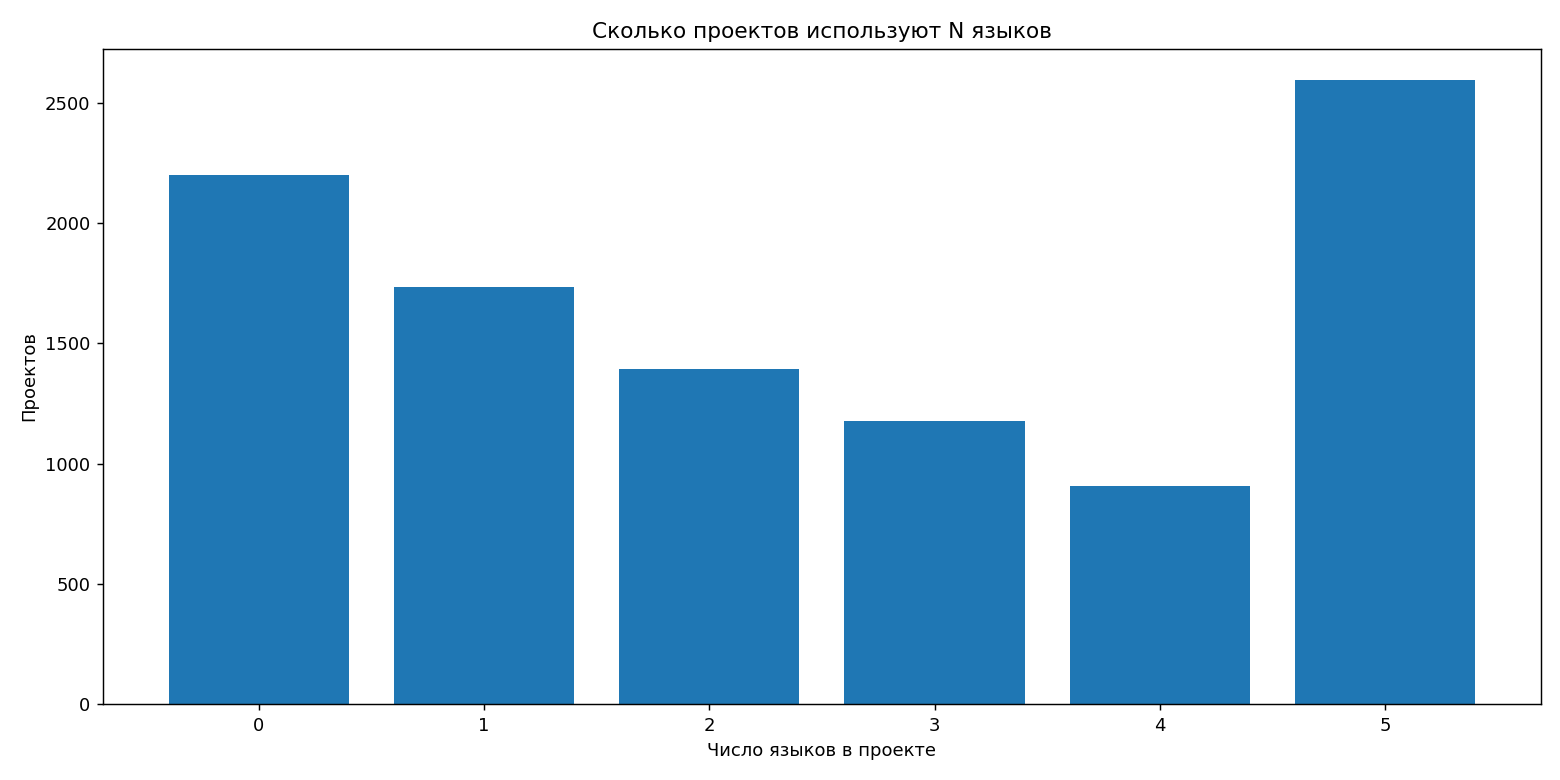
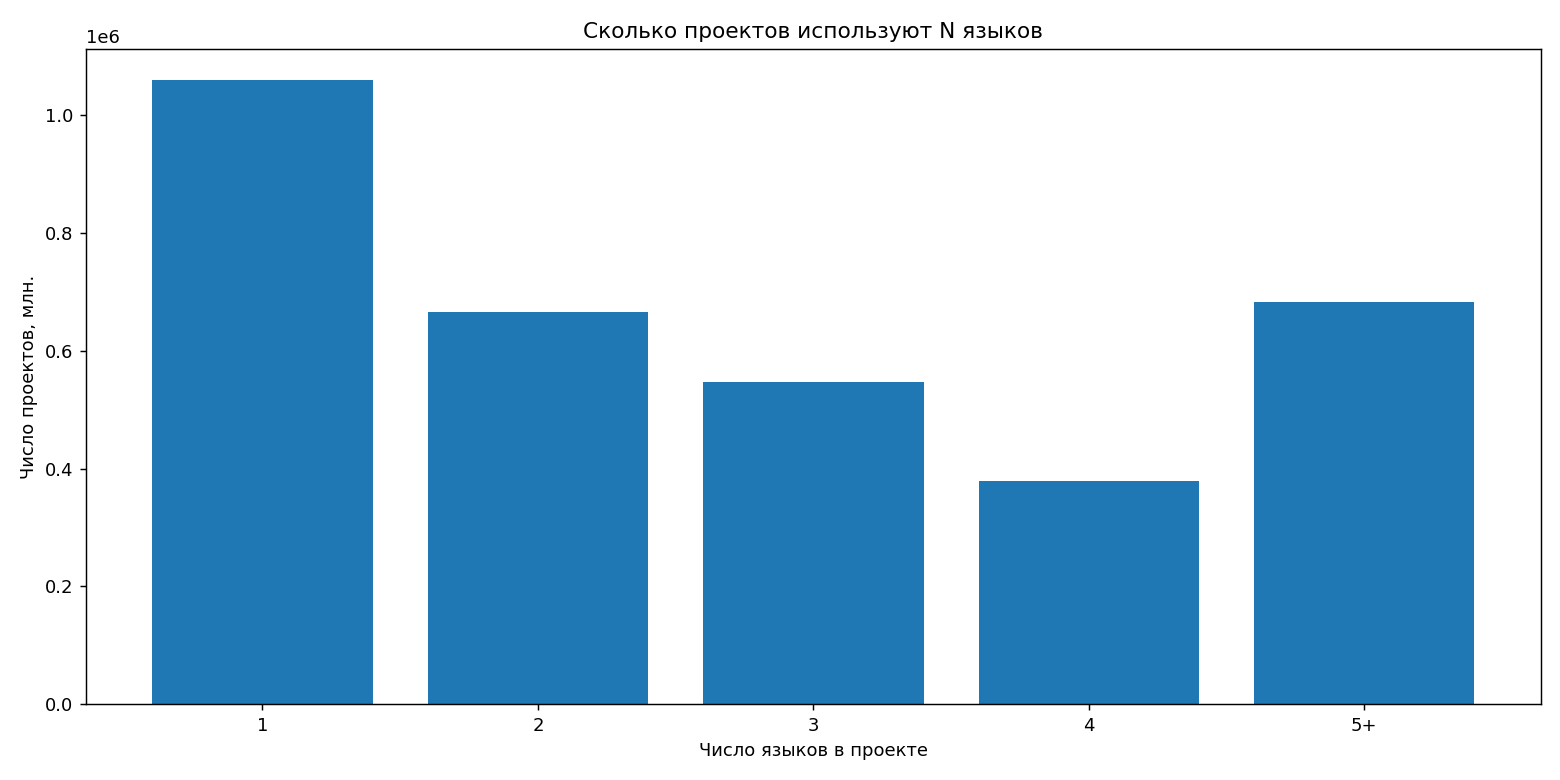
Language number distribution task done

diff --git a/src/scripts/languages_per_project_hist.py b/src/scripts/languages_per_project_hist.py
@@ -1,31 +1,51 @@
 """
-Столбчатая диаграмма: сколько проектов используют 1 язык, 2, 3 и т.д.
+Столбчатая диаграмма: сколько проектов используют 1 язык, 2, 3 и т.д. (батчево)
 """
 import argparse
-from scripts.common.mongo import histogram_languages_per_project
+import os
+from scripts.common.mongo import histogram_languages_per_project_batched
 from scripts.common.plot import bar_chart
 
+BATCH_SIZE = 1000
+
 def main():
-    ap = argparse.ArgumentParser(description="Гистограмма: число языков на проект")
+    ap = argparse.ArgumentParser(description="Гистограмма: число языков на проект (батчево)")
     ap.add_argument("--out", type=str, default="/app/outputs/languages_per_project.png", help="PNG выход")
+    ap.add_argument("--top", type=int, default=None, help="Ограничить максимумом языков (например 20)")
+    ap.add_argument("--debug", action="store_true", help="Печатать больше диагностики")
     args = ap.parse_args()
 
-    hist = histogram_languages_per_project()
+    os.makedirs(os.path.dirname(args.out), exist_ok=True)
+
+    hist = histogram_languages_per_project_batched(limit=args.top)
     if not hist:
         print("Нет данных. Сначала запусти сбор/агрегацию.")
         return
 
-    # сортируем по ключу (кол-во языков)
     xs = sorted(hist.keys())
     labels = [str(x) for x in xs]
     values = [hist[x] for x in xs]
 
-    out = bar_chart(labels, values, args.out,
-                    title="Сколько проектов используют N языков",
-                    xlabel="Число языков в проекте",
-                    ylabel="Проектов",
-                    rotate_x=0)
-    print(f"Готово: {out}")
+    if args.debug:
+        print(f"[debug] final xs: {xs}")
+        print(f"[debug] final values: {values}")
+
+    out = bar_chart(
+        labels,
+        values,
+        args.out,
+        title="Сколько проектов используют N языков",
+        xlabel="Число языков в проекте",
+        ylabel="Число проектов, млн.",
+        rotate_x=0
+    )
+
+    # sanity check
+    if os.path.exists(out):
+        print(f"Готово: {out} ({os.path.getsize(out)} bytes)")
+    else:
+        print(f"[ERROR] файл не создан: {out}")
+
 
 if __name__ == "__main__":
     main()

diff --git a/src/scripts/common/mongo.py b/src/scripts/common/mongo.py
@@ -1,7 +1,12 @@
 from typing import Any, Dict, Iterable, List, Optional
 from pymongo.collection import Collection
+from collections import Counter
+from pymongo import MongoClient
+from app.db import get_db
 from app.config import SETTINGS
 from app.db import get_db as _get_db  # берём готовое подключение с ретраями/индексами
+
+BATCH_SIZE = 1000
 
 def get_db():
     return _get_db()
@@ -32,9 +37,47 @@ def compute_lang_distribution_from_projects() -> Dict[str, int]:
             counts[lang] = counts.get(lang, 0) + 1
     return counts
 
-def histogram_languages_per_project() -> Dict[int, int]:
-    hist: Dict[int, int] = {}
-    for p in iter_projects({"languages": 1}):
-        n = len(p.get("languages") or {})
-        hist[n] = hist.get(n, 0) + 1
-    return hist
+def histogram_languages_per_project_batched(limit: int | None = None) -> dict[int, int]:
+    """
+    Считает распределение по количеству языков на проект (батчево, без полной выгрузки).
+    Возвращает словарь: {число_языков: количество_проектов}.
+    """
+    db = get_db()
+    projects = db["projects"]
+
+    counter = Counter()
+    cursor = projects.find({}, {"languages": 1}, no_cursor_timeout=True).batch_size(BATCH_SIZE)
+
+    try:
+        for idx, doc in enumerate(cursor, start=1):
+            # диагностический вывод раз в 100k (безопасно)
+            if idx % 100000 == 0:
+                print(f"[scan] processed {idx} documents...")
+
+            langs = doc.get("languages")
+            if not langs:
+                continue
+            num_langs = len(langs)
+            counter[num_langs] += 1
+    finally:
+        try:
+            cursor.close()
+        except Exception:
+            pass
+
+    # сортируем по ключу (число языков)
+    items = sorted(counter.items(), key=lambda kv: kv[0])  # (num_langs, count)
+    total_unique = len(items)
+    total_projects = sum(v for _, v in items)
+    print(f"[diag] unique num_langs values found: {total_unique}, total projects counted: {total_projects}")
+
+    # применяем лимит (если задан) — сохраняем порядок по возрастанию числа языков
+    items = sorted(counter.items())
+    result = {}
+    for k, v in items:
+        if limit and k == limit:
+            result[f"{limit}+"] = v
+        else:
+            result[str(k)] = v
+
+    return result

diff --git a/README.md b/README.md
@@ -22,6 +22,16 @@
 - Артефакты: https://github.com/alex-chemis/gitlab-analysis/tree/main/outputs
 
 
+## Выполненные задачи
+
+4. Сколько проектов используют определённое количество языков?<br /><br />
+Найти, что сколько тех, что используют лишь один язык? А два? А три? и т. д.<br /><br />
+![График распределения количества языков](outputs/languages_per_project.png)
+<br />
+Gitlab позволяет выгружать максимум 5 языков, использующиеся больше всего, игнорируя остальные. Поэтому отобразить возможно лишь статистику от 1 до 5+ языков. Однако, этого уже достаточно для проведения некоторого анализа этой статистики.<br />
+Как видно из графика, большая часть проектов на Gitlab (>1 млн. при общей выборке ~4.1 млн.) используют лишь один язык программирования. Меньше всего используют 4 языка (~400 тысяч), а 2 и 5+ примерно одинаковое количество проектов (~650 тысяч)<br />
+
+
 ## Запуск
 
 #### 1) Нужно изменить `.env.example` → `.env` и задать `GITLAB_TOKEN`.
@@ -60,3 +70,4 @@ docker compose run --rm app python -m scripts.languages_per_project_hist --out /
 После выполнения вышеперечисленных команд система будет создавать графики в папке outputs
 
 В данном репозитории приведены данные графики после обработки 10 000 данных проектов
+
